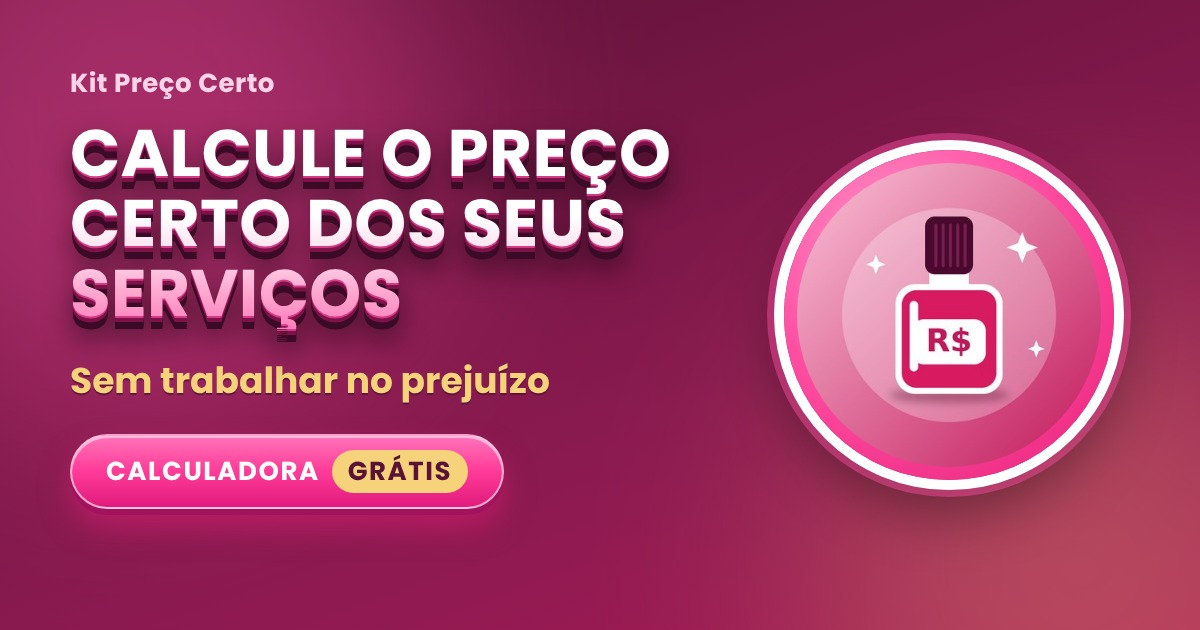
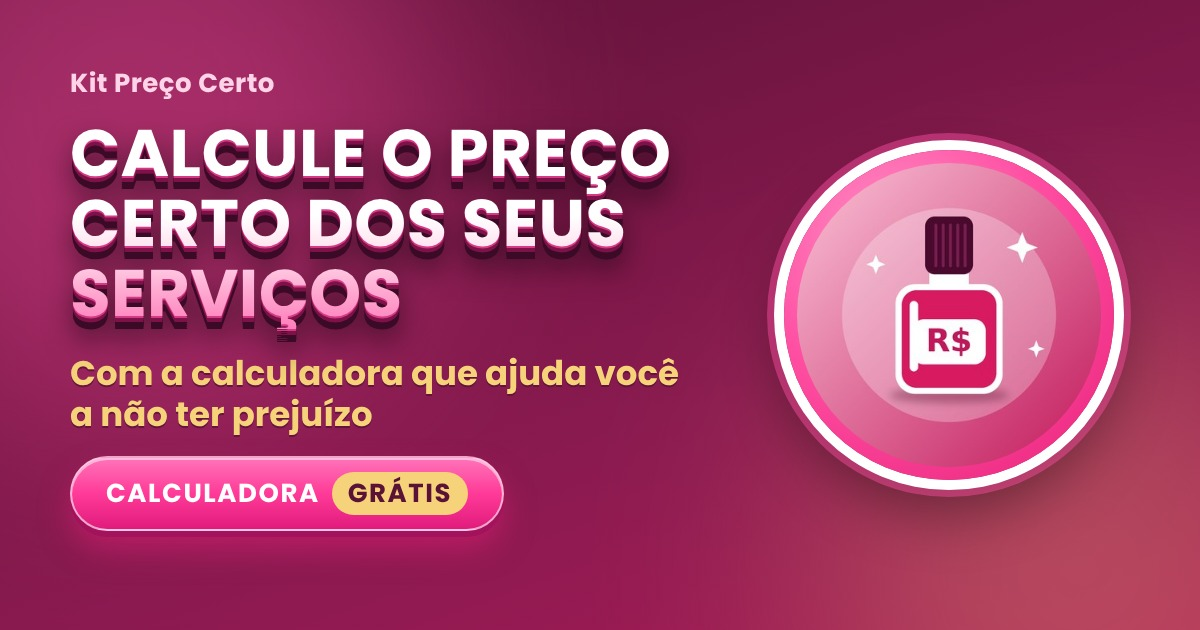
Subtitulo do hero: 'Com a calculadora que ajuda voce a nao ter prejuizo' + nova capa/og
Claude-Session: https://claude.ai/code/session_01VVXSWQenri3WwETC67snQx

Changed region(s): [[0.0617, 0.573, 0.5858, 0.8746]]

diff --git a/index.html b/index.html
@@ -2,11 +2,11 @@
 <html lang="pt-BR"><head><meta charset="utf-8"><meta name="viewport" content="width=device-width, initial-scale=1">
 <title>Calculadora de preço grátis para serviços · Kit Preço Certo</title>
 <meta name="description" content="Calculadora grátis para você descobrir quanto cobrar em cada serviço: material, tempo, aluguel, maquininha e lucro. Planilha Excel e versão para usar no celular.">
-<meta property="og:title" content="Como calcular o preço certo dos seus serviços sem trabalhar no prejuízo. Calculadora grátis"><meta property="og:description" content="Descubra em minutos quanto cobrar em cada serviço."><meta property="og:image" content="https://kitprecocerto.com.br/capa.jpg?v=2"><meta property="og:image:type" content="image/jpeg"><meta property="og:image:width" content="1200"><meta property="og:image:height" content="630"><meta property="og:url" content="https://kitprecocerto.com.br/"><meta property="og:site_name" content="Kit Preço Certo"><meta property="og:locale" content="pt_BR"><meta property="og:type" content="website"><meta name="twitter:card" content="summary_large_image"><link rel="canonical" href="https://kitprecocerto.com.br/">
+<meta property="og:title" content="Calcule o preço certo dos seus serviços com a calculadora que ajuda você a não ter prejuízo. Grátis"><meta property="og:description" content="Descubra em minutos quanto cobrar em cada serviço."><meta property="og:image" content="https://kitprecocerto.com.br/capa.jpg?v=3"><meta property="og:image:type" content="image/jpeg"><meta property="og:image:width" content="1200"><meta property="og:image:height" content="630"><meta property="og:url" content="https://kitprecocerto.com.br/"><meta property="og:site_name" content="Kit Preço Certo"><meta property="og:locale" content="pt_BR"><meta property="og:type" content="website"><meta name="twitter:card" content="summary_large_image"><link rel="canonical" href="https://kitprecocerto.com.br/">
 <link rel="icon" type="image/png" href="favicon.png"><link rel="apple-touch-icon" href="apple-touch-icon.png">
 <link rel="preconnect" href="https://fonts.googleapis.com"><link rel="preconnect" href="https://fonts.gstatic.com" crossorigin>
 <link href="https://fonts.googleapis.com/css2?family=Fredoka:wght@600;700&family=Poppins:wght@400;500;600;700;800&family=Dancing+Script:wght@700&display=swap" rel="stylesheet">
-<link rel="stylesheet" href="style.css?v=38">
+<link rel="stylesheet" href="style.css?v=43">
 <script>document.documentElement.className+=' js';</script></head><body>
 
 <!-- ícones -->
@@ -37,7 +37,7 @@
   <div>
     <div class="ornt" aria-hidden="true"><i></i><svg viewBox="0 0 24 24"><path d="M12 20.5S3.5 15 3.5 8.9A4.6 4.6 0 0 1 12 6.6a4.6 4.6 0 0 1 8.5 2.3C20.5 15 12 20.5 12 20.5z"/></svg><i></i></div>
     <p class="eyebrow">Você sabe quanto custa a sua hora de trabalho?</p>
-    <h1><span class="tt">Calcule o preço certo dos seus serviços</span> <em>Sem Trabalhar no Prejuízo</em></h1>
+    <h1><span class="tt">Calcule o preço certo dos seus serviços</span> <em>Com a calculadora que ajuda você a não ter prejuízo</em></h1>
     <a class="badge pillbar" href="#baixar"><svg viewBox="0 0 24 24" fill="none" stroke="#fff" stroke-width="2" stroke-linecap="round" stroke-linejoin="round"><use href="#i-gift"/></svg><span>Ferramenta <b class="gr">GRÁTIS</b><span class="pp"> · Planilha de preços</span></span><i class="go">→</i></a>
     <p class="sub">Em poucos minutos você descobre quanto cobrar em cada serviço, cobrindo material, tempo, aluguel e maquininha, e ainda sobrando lucro.</p>
     <ul class="ok">

diff --git a/style.css b/style.css
@@ -469,3 +469,6 @@ body>.wrap{position:relative}
 .top + .wrap{padding-top:28px}
 .top + .wrap h2{font-size:clamp(1.25rem,4.6vw,1.5rem)}
 .top + .wrap .card h2{font-size:1.5rem}
+
+/* frase de apoio do titulo (mais longa): menor e balanceada em 2 linhas */
+.top h1 em{font-size:.74em;line-height:1.12;text-wrap:balance;max-width:20em;margin-left:auto;margin-right:auto}
